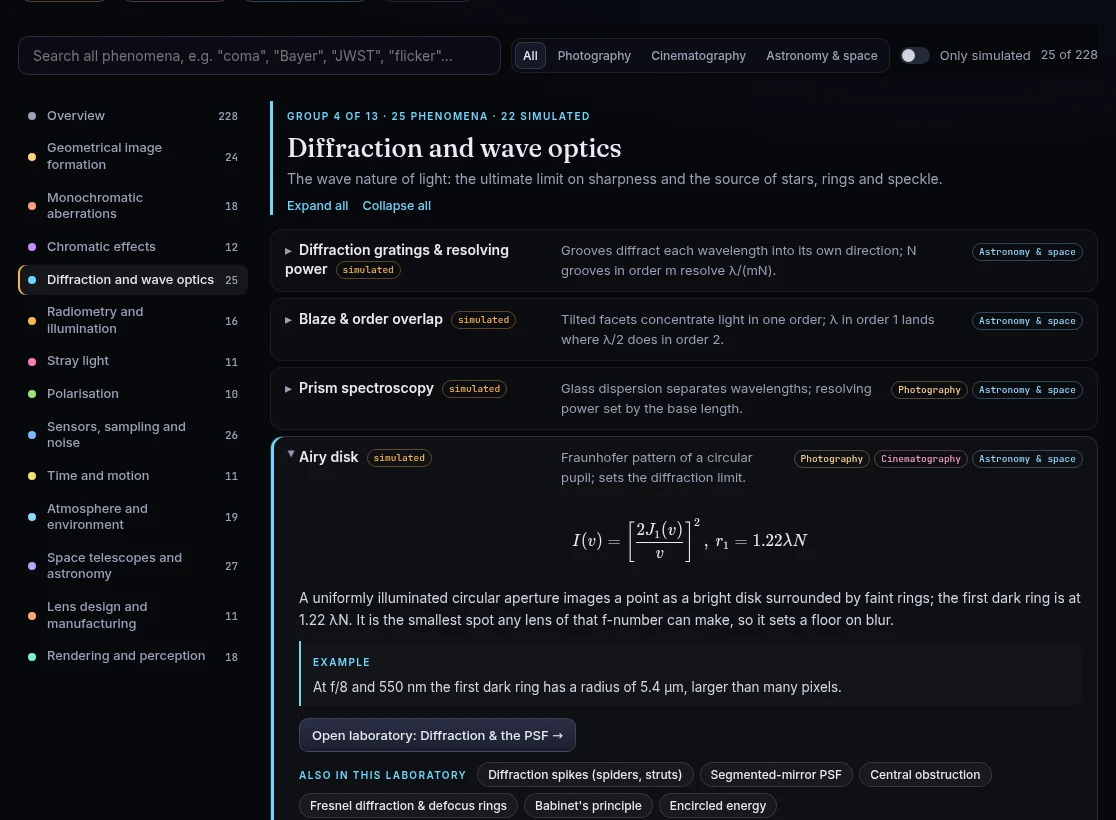
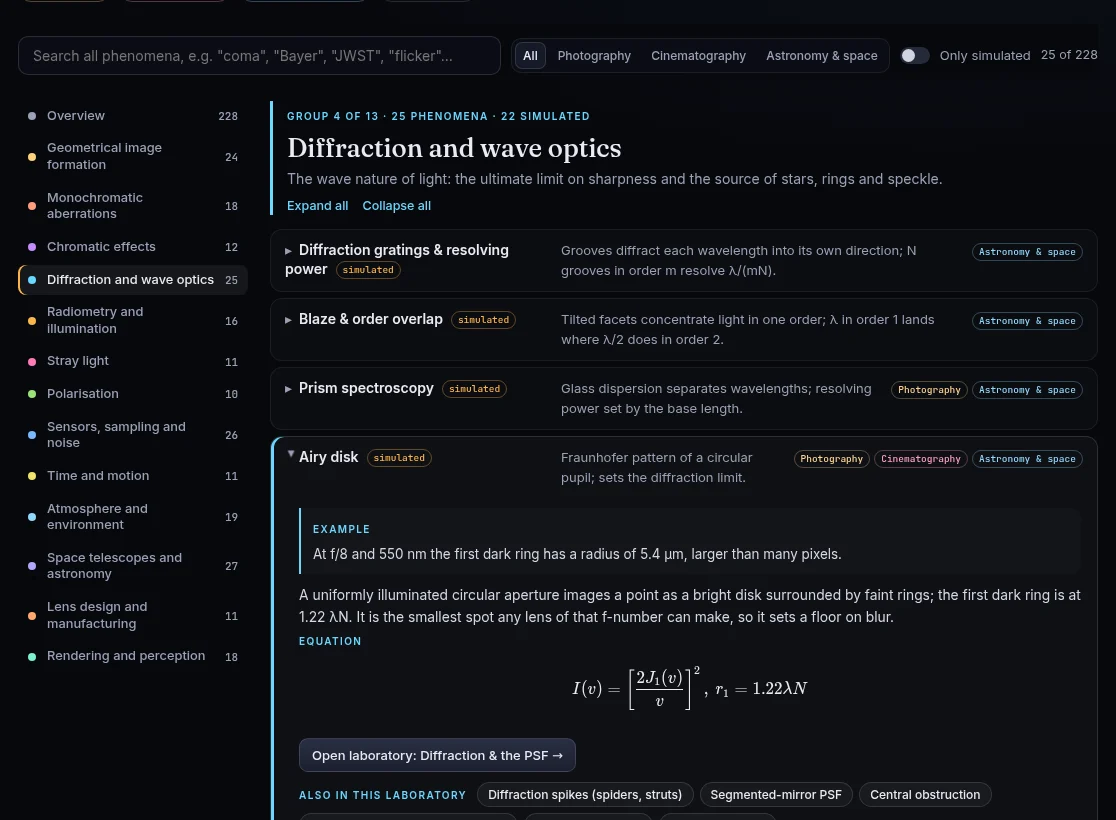
feat(catalogue): open entries from example to equation
An opened entry now shows the worked example first, then the
explanation, then the labelled equation, matching the laboratories'
simple-to-exact order.

Changed region(s): [[0.2437, 0.6402, 0.9749, 1.0]]

diff --git a/css/style.css b/css/style.css
@@ -207,7 +207,7 @@ button.btn:hover, a.btn:hover { border-color: var(--accent); }
 .cat-card:hover { border-color: var(--c); transform: translateY(-1px); }
 .cat-card h3 { font: 500 19px/1.25 var(--font-serif); margin: 0; }
 .cat-card p { margin: 0; color: var(--fg-dim); font-size: 13px; line-height: 1.45; }
-.cat-card .k, .cat-ghead .k, .entry-example .k, .entry-related .k { font: 600 10px/1 var(--font-sans); letter-spacing: .14em; text-transform: uppercase; color: var(--c, var(--accent)); }
+.cat-card .k, .cat-ghead .k, .entry-example .k, .entry-eq .k, .entry-related .k { font: 600 10px/1 var(--font-sans); letter-spacing: .14em; text-transform: uppercase; color: var(--c, var(--accent)); }
 .cat-bar { display: block; height: 3px; border-radius: 2px; background: rgba(255, 255, 255, 0.07); overflow: hidden; margin-top: 4px; }
 .cat-bar i { display: block; height: 100%; background: var(--c); }
 .cat-peek { font-size: 11.5px; color: var(--fg-dim); line-height: 1.45; opacity: .85; }
@@ -236,6 +236,8 @@ button.chip:hover { border-color: var(--c, var(--accent)); }
 .entry-body { display: none; padding: 0 16px 14px 28px; }
 .entry.open .entry-body { display: block; }
 .entry-body .eq { font-size: 14px; overflow-x: auto; overflow-y: hidden; padding: 6px 0 2px; }
+.entry-eq { margin: 8px 0 4px; }
+.entry-eq .k { display: block; margin-top: 4px; }
 .entry-body .prose p { margin: 8px 0; font-size: 13.8px; line-height: 1.6; }
 .entry-example { border-left: 2px solid var(--c); background: rgba(255, 255, 255, 0.025); border-radius: 0 10px 10px 0; padding: 8px 12px; margin: 10px 0; }
 .entry-example .prose { font-size: 13.4px; margin-top: 4px; }

diff --git a/js/modules/catalogue.js b/js/modules/catalogue.js
@@ -82,9 +82,10 @@ export default function mount(root, meta) {
       const [more, example] = e.more || ['', ''];
       const related = (e.lab ? byLab.get(e.lab) : []).filter((x) => x !== e).slice(0, 6);
       body.append(
-        h('div.eq', {}, tex('\\displaystyle ' + e.eq, true)),
-        prose(`<p>${more}</p>`),
+        // simple to exact: a worked example, the explanation, then the governing equation
         example ? h('div.entry-example', {}, h('span.k', {}, 'Example'), prose(example)) : '',
+        prose(`<p>${more}</p>`),
+        h('div.entry-eq', {}, h('span.k', {}, 'Equation'), h('div.eq', {}, tex('\\displaystyle ' + e.eq, true))),
         h('div.entry-foot', {},
           e.lab ? h('a.btn', { href: '#/' + e.lab }, 'Open laboratory: ' + titleOf(e.lab) + ' →') : h('span.note', {}, 'Not simulated in a laboratory yet.'),
           state.q ? h('button.linkish', { type: 'button', onClick: () => go(e.group.id, e.id) }, 'Show in its group: ' + e.group.title) : ''),

diff --git a/README.md b/README.md
@@ -511,9 +511,9 @@ From Maxwell to Fourier optics: the electromagnetic → scalar → geometric hie
 **Catalogue of phenomena** · `#/catalogue`<br>
 <img src="docs/screenshots/catalogue.webp" alt="Overview of the 13 catalogue groups with counts of simulated phenomena">
 
-**228 phenomena in 13 groups**, browsed by group from a navigator or searched across all groups, with domain and "only simulated" filters. Each entry opens to its governing equation, a fuller explanation, a **worked example with real numbers**, a link to its laboratory and related entries. Every group, entry and search has its own link (`#/catalogue?g=…&e=…`).
+**228 phenomena in 13 groups**, browsed by group from a navigator or searched across all groups, with domain and "only simulated" filters. Each entry opens, from simple to exact, to a **worked example with real numbers**, a fuller explanation and its governing equation, a link to its laboratory and related entries. Every group, entry and search has its own link (`#/catalogue?g=…&e=…`).
 
-<img src="docs/screenshots/catalogue-entry.webp" alt="An opened catalogue entry: the Airy disk with equation, explanation, example and related entries">
+<img src="docs/screenshots/catalogue-entry.webp" alt="An opened catalogue entry: the Airy disk with example, explanation, equation and related entries">
 
 </td>
 </tr>

diff --git a/CHANGELOG.md b/CHANGELOG.md
@@ -6,6 +6,9 @@ The format follows [Keep a Changelog](https://keepachangelog.com/en/1.1.0/), and
 
 ## [Unreleased]
 
+### Changed
+- An opened catalogue entry now reads from simple to exact like the laboratories: worked example, explanation, then the equation, which gets its own label.
+
 ### Added
 - **"Start here" path** on the home page (`js/lib/path.js`): 17 laboratories in three stages, from everyday photography (perspective, depth of field, noise) through lens behaviour to telescopes and the research frontier, each with the question it answers. Laboratories already opened are ticked; this is remembered only in the browser. The order is a suggestion, not a lock. The home page's reading guide now describes the simple-to-exact ladder and the glossary.
 - Tests (`test/path.test.mjs`): the path visits existing laboratories once each, with a question per step.

diff --git a/ROADMAP.md b/ROADMAP.md
@@ -365,7 +365,7 @@ An audit of v1.0.1 (code, performance, layout, accessibility and browser compati
   - [x] Astronomy & space, the other 10 laboratories, and the physical foundations (PR #72)
 - [x] **P2 · M** **Glossary**: one file of one-sentence definitions; terms such as f-number, PSF, Strehl ratio and MTF show them on hover or tap (PR #73).
 - [x] **P2 · S** **"Start here" path** on the home page: laboratories ordered from basic (perspective, exposure, depth of field) to advanced (adaptive optics, exoplanet imaging), as a suggestion, not a lock (PR #74).
-- [ ] **P3 · S** Catalogue entries in the same order: plain description, example, explanation, equation.
+- [x] **P3 · S** Catalogue entries in the same order: plain description, example, explanation, equation (PR #75).
 
 ### v2.0 Learning platform
 
